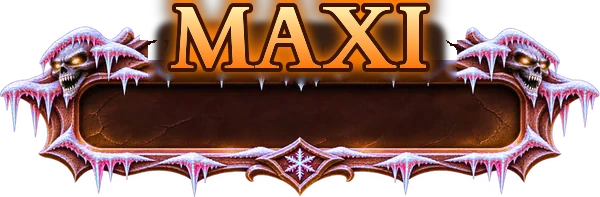
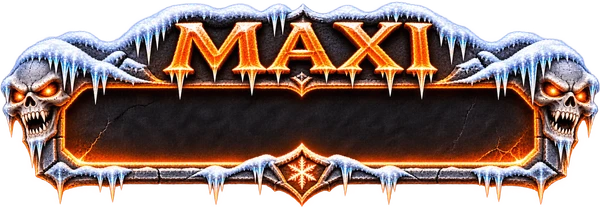
New MAXI, MAJOR, MINOR and MINI plaques; jackpot order MAXI, MAJOR, GRAND, MINOR, MINI
Claude-Session: https://claude.ai/code/session_01JWbc9z4oG3Xz8HupNtxEVe

diff --git a/mobile.html b/mobile.html
@@ -34,11 +34,11 @@ h1 span{background:linear-gradient(180deg,#ffe08a,var(--pump));-webkit-backgroun
 .jps.art .jp b{position:absolute;width:1px;height:1px;overflow:hidden;clip:rect(0 0 0 0)}
 .jps.art .jp i{position:absolute;left:0;right:0;top:var(--py);transform:translateY(-50%);font-size:11cqw;line-height:1;text-shadow:0 2px 0 #000,0 0 8px #000}
 .jps.art .jp.grand{background-image:url(img/plaque_grand.webp);--py:59%}
-.jps.art .jp.major{background-image:url(img/plaque_major.webp);--py:56%}
-.jps.art .jp.maxi{background-image:url(img/plaque_maxi.webp);--py:56%}
-.jps.art .jp.minor{background-image:url(img/plaque_minor.webp);--py:55%}
-.jps.art .jp.mini{background-image:url(img/plaque_mini.webp);--py:56%}
-@media (max-width:560px){.jps.art{grid-template-columns:repeat(6,1fr);gap:2px 4px}.jps.art .jp{grid-column:span 2}.jps.art .jp.grand,.jps.art .jp.major{grid-column:span 3}}
+.jps.art .jp.major{background-image:url(img/plaque_major.webp);--py:60%}
+.jps.art .jp.maxi{background-image:url(img/plaque_maxi.webp);--py:60%}
+.jps.art .jp.minor{background-image:url(img/plaque_minor.webp);--py:60%}
+.jps.art .jp.mini{background-image:url(img/plaque_mini.webp);--py:60%}
+@media (max-width:560px){.jps.art{grid-template-columns:repeat(6,1fr);gap:2px 4px}.jps.art .jp{grid-column:span 2}.jps.art .jp.minor,.jps.art .jp.mini{grid-column:span 3}}
 #spin.art{background:url(img/button_spin.webp) center/contain no-repeat;box-shadow:none;border-radius:50%;filter:drop-shadow(0 6px 10px #000c);
  text-shadow:0 2px 0 #7a2a00,0 0 10px #000a;font-size:clamp(18px,3.6vw,24px);transition:transform .08s,filter .2s}
 #spin.art:hover{filter:drop-shadow(0 6px 10px #000c) drop-shadow(0 0 16px #ff8a1f) brightness(1.08)}
@@ -350,7 +350,7 @@ button{touch-action:manipulation;-webkit-tap-highlight-color:transparent}
  background:#24174fcc;border:2px solid #ffffff33;backdrop-filter:blur(4px)}
 .menubtn.armed{background:#ff8a1f;animation:pulse .6s infinite alternate}
 .cab.m .jps.art{grid-template-columns:repeat(6,1fr);gap:2px 3px;margin:0}
-.cab.m .jps.art .jp{grid-column:span 2}.cab.m .jps.art .jp.grand,.cab.m .jps.art .jp.major{grid-column:span 3}
+.cab.m .jps.art .jp{grid-column:span 2}.cab.m .jps.art .jp.minor,.cab.m .jps.art .jp.mini{grid-column:span 3}
 .cab.m .jps.art .jp i{font-size:13cqw}
 .cab.m .stage{flex:1;justify-content:center}
 .cab.m .frame,.cab.m .frame.moonf{width:calc(100% + 14px);margin:0 -7px}
@@ -398,7 +398,7 @@ button{touch-action:manipulation;-webkit-tap-highlight-color:transparent}
 .cab.m h1.logo img{height:auto;width:100%;max-width:100%;max-height:20dvh}
 .cab.m .menubtn{position:static;transform:none;width:34px;height:34px;font-size:18px;flex:none}
 .cab.m .jps.art{grid-area:jps;grid-template-columns:1fr;align-content:center;gap:4px}
-.cab.m .jps.art .jp,.cab.m .jps.art .jp.grand,.cab.m .jps.art .jp.major{grid-column:auto}
+.cab.m .jps.art .jp,.cab.m .jps.art .jp.minor,.cab.m .jps.art .jp.mini{grid-column:auto}
 .cab.m .stage{grid-area:stage;min-height:0;display:flex;flex-direction:column;align-items:center;justify-content:center;gap:4px}
 .cab.m .frame:not(.moonf){aspect-ratio:1600/1000;height:auto;width:min(100%,calc(var(--H)*1.6));margin:0}
 .cab.m .frame:not(.moonf)::after{border:none;border-image:none;background:url(img/frame_base.webp) 0 0/100% 100% no-repeat}
@@ -434,9 +434,9 @@ button{touch-action:manipulation;-webkit-tap-highlight-color:transparent}
     <button class="menubtn" id="menuBtn" aria-label="Menu">&#9776;</button>
   </header>
   <div class="jps art">
-    <div class="jp grand" id="jpGRAND"><b>GRAND</b><i>$0</i></div>
-    <div class="jp major" id="jpMAJOR"><b>MAJOR</b><i>$0</i></div>
     <div class="jp maxi" id="jpMAXI"><b>MAXI</b><i>$0</i></div>
+    <div class="jp major" id="jpMAJOR"><b>MAJOR</b><i>$0</i></div>
+    <div class="jp grand" id="jpGRAND"><b>GRAND</b><i>$0</i></div>
     <div class="jp minor" id="jpMINOR"><b>MINOR</b><i>$0</i></div>
     <div class="jp mini" id="jpMINI"><b>MINI</b><i>$0</i></div>
   </div>

diff --git a/index.html b/index.html
@@ -33,11 +33,11 @@ h1 span{background:linear-gradient(180deg,#ffe08a,var(--pump));-webkit-backgroun
 .jps.art .jp b{position:absolute;width:1px;height:1px;overflow:hidden;clip:rect(0 0 0 0)}
 .jps.art .jp i{position:absolute;left:0;right:0;top:var(--py);transform:translateY(-50%);font-size:11cqw;line-height:1;text-shadow:0 2px 0 #000,0 0 8px #000}
 .jps.art .jp.grand{background-image:url(img/plaque_grand.webp);--py:59%}
-.jps.art .jp.major{background-image:url(img/plaque_major.webp);--py:56%}
-.jps.art .jp.maxi{background-image:url(img/plaque_maxi.webp);--py:56%}
-.jps.art .jp.minor{background-image:url(img/plaque_minor.webp);--py:55%}
-.jps.art .jp.mini{background-image:url(img/plaque_mini.webp);--py:56%}
-@media (max-width:560px){.jps.art{grid-template-columns:repeat(6,1fr);gap:2px 4px}.jps.art .jp{grid-column:span 2}.jps.art .jp.grand,.jps.art .jp.major{grid-column:span 3}}
+.jps.art .jp.major{background-image:url(img/plaque_major.webp);--py:60%}
+.jps.art .jp.maxi{background-image:url(img/plaque_maxi.webp);--py:60%}
+.jps.art .jp.minor{background-image:url(img/plaque_minor.webp);--py:60%}
+.jps.art .jp.mini{background-image:url(img/plaque_mini.webp);--py:60%}
+@media (max-width:560px){.jps.art{grid-template-columns:repeat(6,1fr);gap:2px 4px}.jps.art .jp{grid-column:span 2}.jps.art .jp.minor,.jps.art .jp.mini{grid-column:span 3}}
 #spin.art{background:url(img/button_spin.webp) center/contain no-repeat;box-shadow:none;border-radius:50%;filter:drop-shadow(0 6px 10px #000c);
  text-shadow:0 2px 0 #7a2a00,0 0 10px #000a;font-size:clamp(18px,3.6vw,24px);transition:transform .08s,filter .2s}
 #spin.art:hover{filter:drop-shadow(0 6px 10px #000c) drop-shadow(0 0 16px #ff8a1f) brightness(1.08)}
@@ -342,9 +342,9 @@ button{font-family:inherit;cursor:pointer;border:none;color:#fff;font-weight:700
 <div class="cab">
   <h1 class="logo"><img src="img/logo.webp" alt="Frostfang Hollow Link" draggable="false"></h1>
   <div class="jps art">
-    <div class="jp grand" id="jpGRAND"><b>GRAND</b><i>$0</i></div>
-    <div class="jp major" id="jpMAJOR"><b>MAJOR</b><i>$0</i></div>
     <div class="jp maxi" id="jpMAXI"><b>MAXI</b><i>$0</i></div>
+    <div class="jp major" id="jpMAJOR"><b>MAJOR</b><i>$0</i></div>
+    <div class="jp grand" id="jpGRAND"><b>GRAND</b><i>$0</i></div>
     <div class="jp minor" id="jpMINOR"><b>MINOR</b><i>$0</i></div>
     <div class="jp mini" id="jpMINI"><b>MINI</b><i>$0</i></div>
   </div>

diff --git a/src/ui.html b/src/ui.html
@@ -33,11 +33,11 @@ h1 span{background:linear-gradient(180deg,#ffe08a,var(--pump));-webkit-backgroun
 .jps.art .jp b{position:absolute;width:1px;height:1px;overflow:hidden;clip:rect(0 0 0 0)}
 .jps.art .jp i{position:absolute;left:0;right:0;top:var(--py);transform:translateY(-50%);font-size:11cqw;line-height:1;text-shadow:0 2px 0 #000,0 0 8px #000}
 .jps.art .jp.grand{background-image:url(img/plaque_grand.webp);--py:59%}
-.jps.art .jp.major{background-image:url(img/plaque_major.webp);--py:56%}
-.jps.art .jp.maxi{background-image:url(img/plaque_maxi.webp);--py:56%}
-.jps.art .jp.minor{background-image:url(img/plaque_minor.webp);--py:55%}
-.jps.art .jp.mini{background-image:url(img/plaque_mini.webp);--py:56%}
-@media (max-width:560px){.jps.art{grid-template-columns:repeat(6,1fr);gap:2px 4px}.jps.art .jp{grid-column:span 2}.jps.art .jp.grand,.jps.art .jp.major{grid-column:span 3}}
+.jps.art .jp.major{background-image:url(img/plaque_major.webp);--py:60%}
+.jps.art .jp.maxi{background-image:url(img/plaque_maxi.webp);--py:60%}
+.jps.art .jp.minor{background-image:url(img/plaque_minor.webp);--py:60%}
+.jps.art .jp.mini{background-image:url(img/plaque_mini.webp);--py:60%}
+@media (max-width:560px){.jps.art{grid-template-columns:repeat(6,1fr);gap:2px 4px}.jps.art .jp{grid-column:span 2}.jps.art .jp.minor,.jps.art .jp.mini{grid-column:span 3}}
 #spin.art{background:url(img/button_spin.webp) center/contain no-repeat;box-shadow:none;border-radius:50%;filter:drop-shadow(0 6px 10px #000c);
  text-shadow:0 2px 0 #7a2a00,0 0 10px #000a;font-size:clamp(18px,3.6vw,24px);transition:transform .08s,filter .2s}
 #spin.art:hover{filter:drop-shadow(0 6px 10px #000c) drop-shadow(0 0 16px #ff8a1f) brightness(1.08)}
@@ -342,9 +342,9 @@ button{font-family:inherit;cursor:pointer;border:none;color:#fff;font-weight:700
 <div class="cab">
   <h1 class="logo"><img src="img/logo.webp" alt="Frostfang Hollow Link" draggable="false"></h1>
   <div class="jps art">
-    <div class="jp grand" id="jpGRAND"><b>GRAND</b><i>$0</i></div>
-    <div class="jp major" id="jpMAJOR"><b>MAJOR</b><i>$0</i></div>
     <div class="jp maxi" id="jpMAXI"><b>MAXI</b><i>$0</i></div>
+    <div class="jp major" id="jpMAJOR"><b>MAJOR</b><i>$0</i></div>
+    <div class="jp grand" id="jpGRAND"><b>GRAND</b><i>$0</i></div>
     <div class="jp minor" id="jpMINOR"><b>MINOR</b><i>$0</i></div>
     <div class="jp mini" id="jpMINI"><b>MINI</b><i>$0</i></div>
   </div>

diff --git a/src/make_mobile.py b/src/make_mobile.py
@@ -14,9 +14,9 @@ u=u[:i]+'''<div class="cab m">
     <button class="menubtn" id="menuBtn" aria-label="Menu">&#9776;</button>
   </header>
   <div class="jps art">
-    <div class="jp grand" id="jpGRAND"><b>GRAND</b><i>$0</i></div>
-    <div class="jp major" id="jpMAJOR"><b>MAJOR</b><i>$0</i></div>
     <div class="jp maxi" id="jpMAXI"><b>MAXI</b><i>$0</i></div>
+    <div class="jp major" id="jpMAJOR"><b>MAJOR</b><i>$0</i></div>
+    <div class="jp grand" id="jpGRAND"><b>GRAND</b><i>$0</i></div>
     <div class="jp minor" id="jpMINOR"><b>MINOR</b><i>$0</i></div>
     <div class="jp mini" id="jpMINI"><b>MINI</b><i>$0</i></div>
   </div>
@@ -74,7 +74,7 @@ button{touch-action:manipulation;-webkit-tap-highlight-color:transparent}
  background:#24174fcc;border:2px solid #ffffff33;backdrop-filter:blur(4px)}
 .menubtn.armed{background:#ff8a1f;animation:pulse .6s infinite alternate}
 .cab.m .jps.art{grid-template-columns:repeat(6,1fr);gap:2px 3px;margin:0}
-.cab.m .jps.art .jp{grid-column:span 2}.cab.m .jps.art .jp.grand,.cab.m .jps.art .jp.major{grid-column:span 3}
+.cab.m .jps.art .jp{grid-column:span 2}.cab.m .jps.art .jp.minor,.cab.m .jps.art .jp.mini{grid-column:span 3}
 .cab.m .jps.art .jp i{font-size:13cqw}
 .cab.m .stage{flex:1;justify-content:center}
 .cab.m .frame,.cab.m .frame.moonf{width:calc(100% + 14px);margin:0 -7px}
@@ -122,7 +122,7 @@ button{touch-action:manipulation;-webkit-tap-highlight-color:transparent}
 .cab.m h1.logo img{height:auto;width:100%;max-width:100%;max-height:20dvh}
 .cab.m .menubtn{position:static;transform:none;width:34px;height:34px;font-size:18px;flex:none}
 .cab.m .jps.art{grid-area:jps;grid-template-columns:1fr;align-content:center;gap:4px}
-.cab.m .jps.art .jp,.cab.m .jps.art .jp.grand,.cab.m .jps.art .jp.major{grid-column:auto}
+.cab.m .jps.art .jp,.cab.m .jps.art .jp.minor,.cab.m .jps.art .jp.mini{grid-column:auto}
 .cab.m .stage{grid-area:stage;min-height:0;display:flex;flex-direction:column;align-items:center;justify-content:center;gap:4px}
 .cab.m .frame:not(.moonf){aspect-ratio:1600/1000;height:auto;width:min(100%,calc(var(--H)*1.6));margin:0}
 .cab.m .frame:not(.moonf)::after{border:none;border-image:none;background:url(img/frame_base.webp) 0 0/100% 100% no-repeat}
